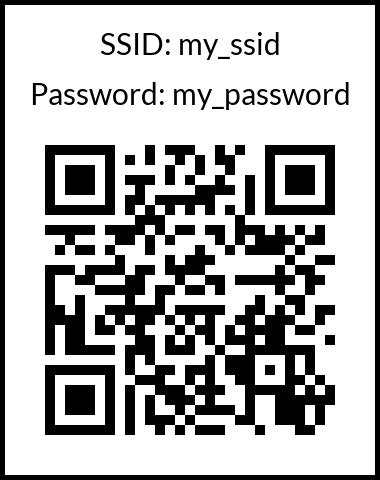
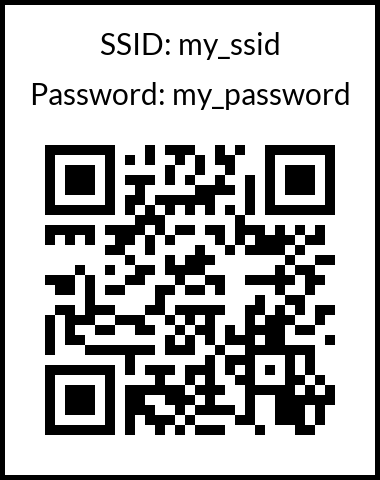
Fix problem with wrong security in QR string

diff --git a/bucket_of_utils/qr/wifi.py b/bucket_of_utils/qr/wifi.py
@@ -14,13 +14,13 @@ from qrcode.image.styles.moduledrawers.pil import SquareModuleDrawer
 
 def get_qr_string(*, ssid: str, password: str, security: str, hidden: bool):
     """Generate a QR string for a given wifi network"""
-    return f"WIFI:S:{ssid};T:{security};P:{password};H:{hidden};;"
+    return f"WIFI:S:{ssid};T:{security.upper()};P:{password};H:{hidden};;"
 
 
 class SecurityTypes(enum.StrEnum):
     WPA = enum.auto()
     WEP = enum.auto()
-    nopass = enum.auto()
+    no_password = ""
 
 
 def get_font():

diff --git a/tests/qr/test_wifi.py b/tests/qr/test_wifi.py
@@ -14,10 +14,7 @@ def test_getting_wifi_string():
 
 
 def test_getting_wifi_string_with_no_password():
-    assert (
-        wifi.get_qr_string(ssid="ssid", password="", security="nopass", hidden=False)
-        == "WIFI:S:ssid;T:nopass;P:;H:False;;"
-    )
+    assert wifi.get_qr_string(ssid="ssid", password="", security="", hidden=False) == "WIFI:S:ssid;T:;P:;H:False;;"
 
 
 def test_generating_qr_code():
